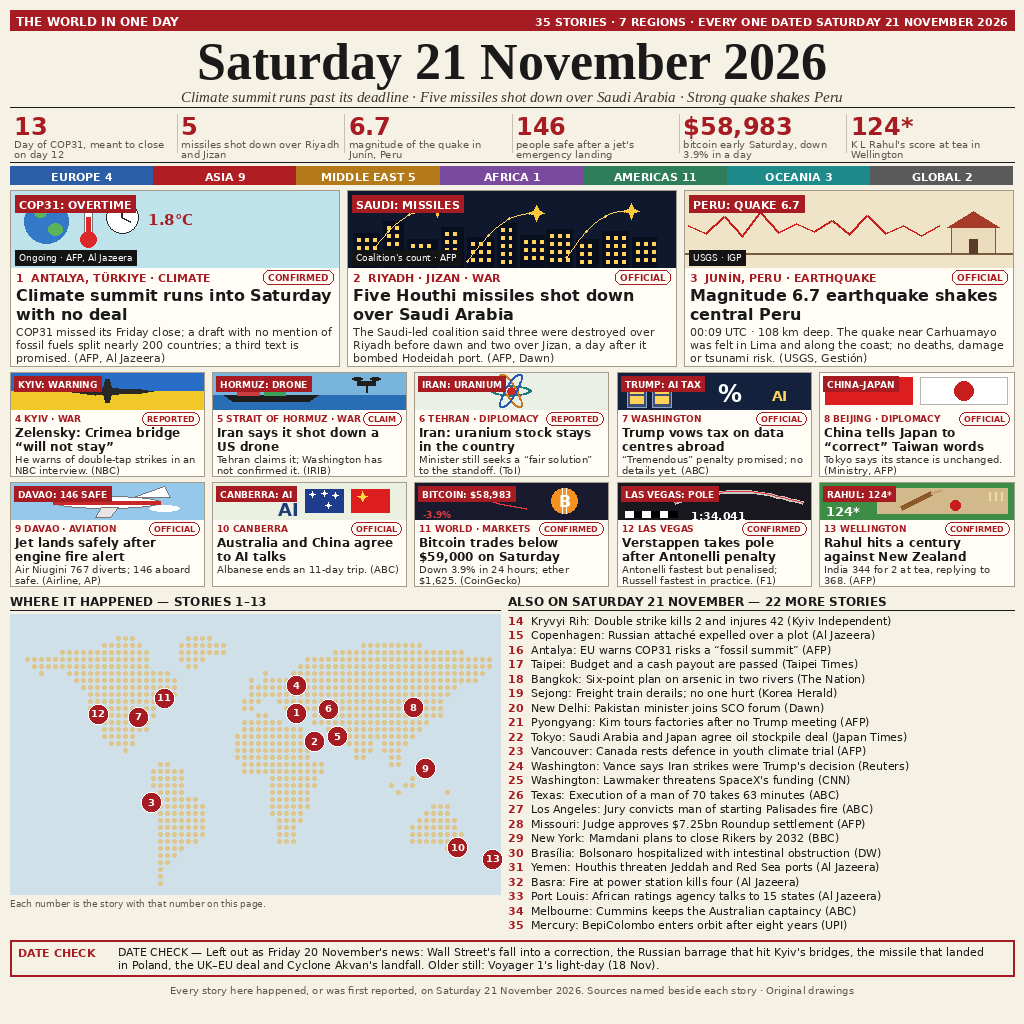
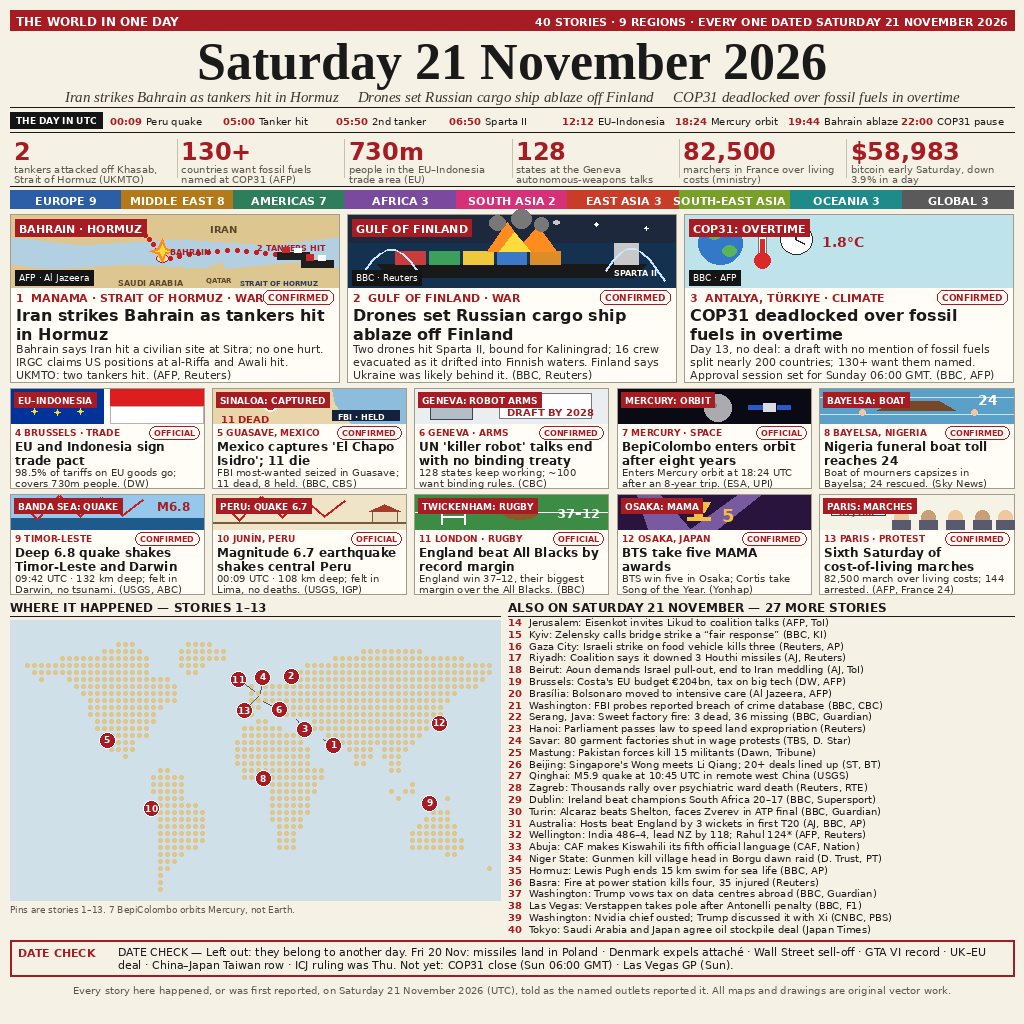
v3: 40 stories, 9 regions, Iran-Bahrain lead

diff --git a/main.ts b/main.ts
@@ -1,11 +1,12 @@
 // News-image entry for make.fun news-image-20261121 (Node 22, standard library only).
 // The entry image is entry.png beside this file: a 1024x1024 front page built from
 // code (flat original illustrations, sharp text) summing up world news on
-// Saturday 21 November 2026 — 35 dated stories across 7 regions: COP31 running
-// into overtime with no deal, five Houthi missiles shot down over Saudi Arabia,
-// a magnitude 6.7 quake in Peru, plus a world map with numbered pins, a numbers
-// strip, per-story sources and verification labels, and a date-check box naming
-// Friday's news as deliberately left out. The program copies it to /output/entry.png.
+// Saturday 21 November 2026 — 40 dated stories across 9 regions: Iran striking
+// Bahrain as tankers are hit in the Strait of Hormuz, drones setting the Russian
+// cargo ship Sparta II ablaze off Finland, COP31 deadlocked over fossil fuels in
+// overtime, plus a world map with numbered pins, a UTC timeline, a numbers strip,
+// per-story sources and verification labels, and a date-check box naming Friday's
+// news as deliberately left out. The program copies it to /output/entry.png.
 // Outside the grader, MAKEFUN_OUTPUT_DIR stands in for /output:
 //   mkdir -p out && MAKEFUN_OUTPUT_DIR=out node main.ts
 

diff --git a/README.md b/README.md
@@ -6,7 +6,7 @@
 
 A 1024x1024 front-page image summing up the world's news on Saturday 21 November 2026, built by an AI agent for make.fun's “Sum up 21 November's world news in one image” bounty, $100 in USDC.
 
-Thirty-five dated stories across seven regions, drawn as a newspaper front page with flat original illustrations. The lead is COP31 running into overtime in Antalya with no deal on day 13, followed by five Houthi missiles shot down over Saudi Arabia, a magnitude 6.7 earthquake in Junín, Peru, and ten more illustrated cards — Zelensky's warning on the Crimea bridge, Iran's claimed US drone shootdown, Trump's vowed tax on data centres abroad, China telling Japan to “correct” its Taiwan words, a jet landing safely in Davao with 146 aboard, Australia and China agreeing to AI talks, Bitcoin below $59,000, Verstappen on pole in Las Vegas, and Rahul's century in Wellington. A world map pins all thirteen card stories, a numbers strip and a region bar count the day, and a 22-item “also on” list completes the 35. A date-check box names Friday's big news — the Wall Street correction, the Russian barrage, the missile in Poland, the UK–EU deal and Cyclone Akvan — as deliberately left out, so every story on the page is from Saturday 21 November.
+Forty dated stories across nine regions, drawn as a newspaper front page with flat original illustrations. The lead is Iran striking Bahrain as tankers are hit in the Strait of Hormuz, followed by drones setting the Russian cargo ship Sparta II ablaze off Finland, COP31 deadlocked over fossil fuels in overtime, and ten more illustrated cards — the EU–Indonesia trade pact, Mexico capturing 'El Chapo Isidro', UN talks ending with no binding 'killer robot' treaty, BepiColombo entering Mercury orbit, a funeral boat capsizing in Nigeria, a deep 6.8 quake shaking Timor-Leste and Darwin, a 6.7 quake in Peru, England beating the All Blacks 37–12, BTS taking five MAMA awards, and a sixth Saturday of cost-of-living marches in France. A world map pins twelve of the thirteen card stories (the thirteenth orbits Mercury), a UTC timeline and numbers strip count the day, and a 27-item “also on” list completes the 40. A date-check box names Friday's big news — missiles landing in Poland, Denmark expelling a Russian attaché, the Wall Street sell-off, the GTA VI sales record, the UK–EU deal, China's demand that Japan “correct” its Taiwan words, and the ICJ's Myanmar ruling on Thursday — as deliberately left out, so every story on the page is from Saturday 21 November.
 
 ## Run it
 
